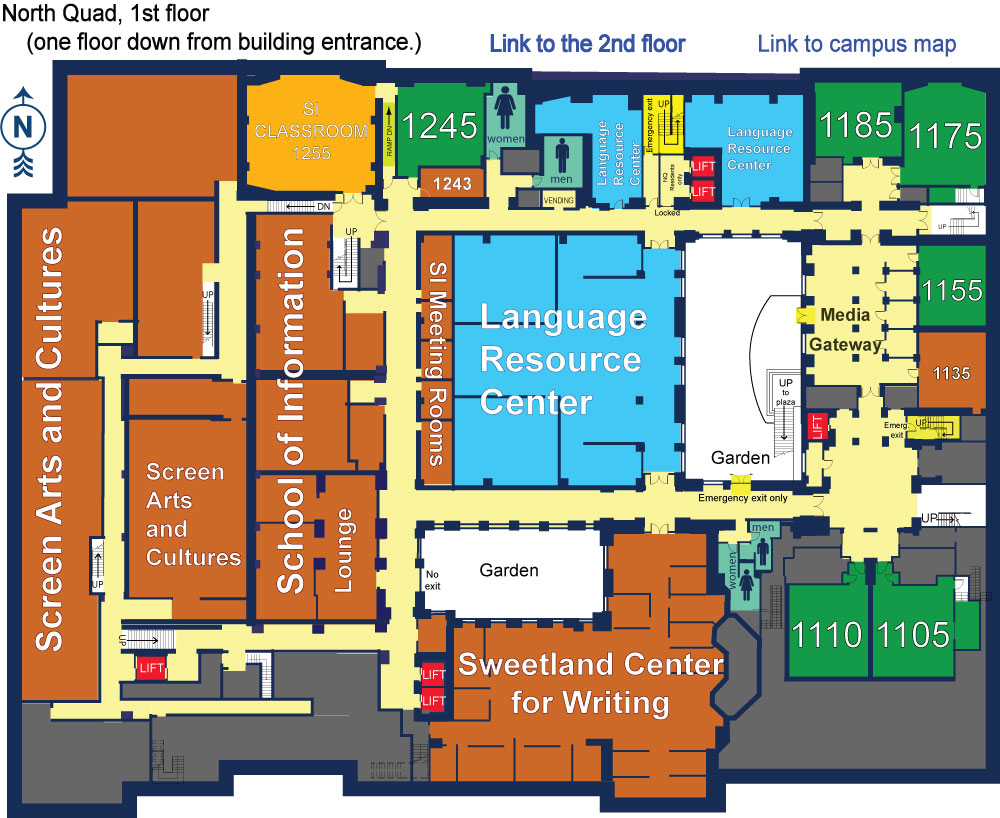
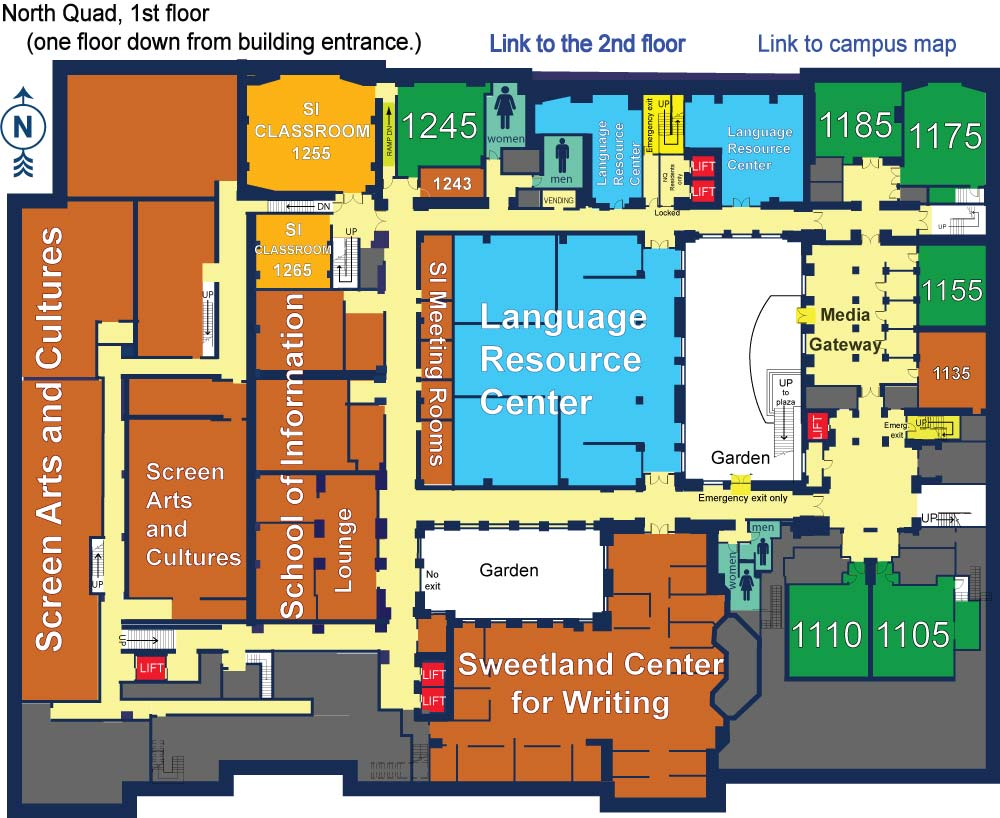
update floor maps

diff --git a/public/maps/nq1.html b/public/maps/nq1.html
@@ -1,5 +1,5 @@
-<!DOCTYPE html PUBLIC "-//W3C//DTD XHTML 1.0 Transitional//EN" "http://www.w3.org/TR/xhtml1/DTD/xhtml1-transitional.dtd">
-<html xmlns="http://www.w3.org/1999/xhtml">
+
+<!DOCTYPE html>
 <head>
 <meta http-equiv="Content-Type" content="text/html; charset=utf-8" />
 <title>North Quad - 1st floor</title>
@@ -9,17 +9,19 @@
 <map name="nq1" id="nq1">
   <area shape="rect" coords="478,31,691,59" href="nq2.html" target="_self" alt="Link to the 2nd floor" title="Link the 2nd floor" />
   <area shape="rect" coords="753,30,966,58" href="index.html" target="_self" alt="Link to campus map" title="Link to campus map" />
-  <area shape="rect" coords="401,85,482,165" href="../classrooms/NQ1245" alt="link to room 1245 data" title="link to room 1245 data" />
-  <area shape="rect" coords="816,84,902,156" href="../classrooms/NQ1185" alt="link to room 1185 data" title="link to room 1185 data" />
-  <area shape="rect" coords="905,89,986,183" href="../classrooms/NQ1175" alt="link to room 1175 data" title="link to room 1175 data" />
   <area shape="rect" coords="872,584,953,678" href="../classrooms/NQ1105" alt="link to room 1105 data" title="link to room 1105 data" />
   <area shape="rect" coords="787,583,868,677" href="../classrooms/NQ1110" alt="link to room 1110 data" title="link to room 1110 data" />
   <area shape="rect" coords="920,245,985,327" href="../classrooms/NQ1155" alt="link to room 1155 data" title="link to room 1155 data" />
+  <area shape="rect" coords="905,89,986,183" href="../classrooms/NQ1175" alt="link to room 1175 data" title="link to room 1175 data" />
+  <area shape="rect" coords="816,84,902,156" href="../classrooms/NQ1185" alt="link to room 1185 data" title="link to room 1185 data" />
+  <area shape="rect" coords="401,85,482,165" href="../classrooms/NQ1245" alt="link to room 1245 data" title="link to room 1245 data" />
+  <area shape="rect" coords="246,66,376,195" href="../classrooms/NQ1255" alt="link to room 1255 data" title="link to room 1255 data" />
+  <area shape="rect" coords="249,215,331,289" href="../classrooms/NQ1265" alt="link to room 1265 data" title="link to room 1265 data" />
   <area shape="poly" coords="534,91,534,133,592,135,590,201,642,199,641,87" href="http://www.lsa.umich.edu/lrc/" target="_blank"  alt="link to the LRC website" title="link to the LRC website" />
   <area shape="poly" coords="686,96,687,149,721,149,723,205,802,203,804,92" href="http://www.lsa.umich.edu/lrc/" target="_blank"  alt="link to the LRC website" title="link to the LRC website" />
   <area shape="rect" coords="457,236,682,484" href="http://www.lsa.umich.edu/lrc/" target="_blank" alt="link to the LRC website" title="link to the LRC website" />
   <area shape="rect" coords="32,227,228,603" href="http://www.lsa.umich.edu/sac/" target="_blank" alt="link to the SAC website" title="link to the SAC website" />
-  <area shape="rect" coords="265,220,362,615" href="http://www.si.umich.edu/" target="_blank" alt="link to the SI website" title="link to the SI website" />
+  <area shape="rect" coords="265,296,362,615" href="http://www.si.umich.edu/" target="_blank" alt="link to the SI website" title="link to the SI website" />
   <area shape="rect" coords="458,624,717,777" href="http://www.lsa.umich.edu/sweetland/" target="_blank" alt="link to the Sweetland website" title="link to the Sweetland website" />
 </map>
 </body>

diff --git a/public/maps/nq2.html b/public/maps/nq2.html
@@ -1,4 +1,3 @@
-
 <!DOCTYPE html>
 <head>
 <meta http-equiv="Content-Type" content="text/html; charset=utf-8" />
@@ -9,11 +8,14 @@
 <map name="nq2" id="nq2">
   <area shape="rect" coords="407,301,604,331" href="nq1.html" target="_self" alt="Link to first floor" title="Link to first floor" />
   <area shape="rect" coords="387,336,629,366" href="index.html" target="_self" alt="Link to campus map" title="Link to campus map" />
+  <area shape="rect" coords="904,271,992,360" href="../classrooms/NQ2135 " alt="link to room 2135 data" title="link to room 2135 data" />
+  <area shape="rect" coords="905,175,993,268" href="../classrooms/NQ2155 " alt="link to room 2155 data" title="link to room 2155 data" />
+  <area shape="rect" coords="895,20,992,159" href="../classrooms/NQ2175 " alt="link to room 2175 data" title="link to room 2175 data" />
+  <area shape="rect" coords="796,8,895,99" href="../classrooms/NQ2185 " alt="link to room 2185 data" title="link to room 2185 data" />
+  <area shape="rect" coords="397,19,476,129" href="../classrooms/NQ2245 " alt="link to room 2245 data" title="link to room 2245 data" />
+  <area shape="rect" coords="248,7,381,138" href="../classrooms/NQ2255 " alt="link to room 2255 data" title="link to room 2255 data" />
   <area shape="rect" coords="236,180,330,250" href="../classrooms/NQ2265 " alt="link to room 2265 data" title="link to room 2265 data" />
   <area shape="rect" coords="240,251,388,327" href="../classrooms/NQ2275 " alt="link to room 2275 data" title="link to room 2275 data" />
-  <area shape="rect" coords="888,12,992,159" href="../classrooms/NQ2175 " alt="link to room 2175 data" title="link to room 2175 data" />
-  <area shape="rect" coords="905,175,993,268" href="../classrooms/NQ2155 " alt="link to room 2155 data" title="link to room 2155 data" />
-  <area shape="rect" coords="904,271,992,360" href="../classrooms/NQ2135 " alt="link to room 2135 data" title="link to room 2135 data" />
 </map>
 </body>
 </html>
